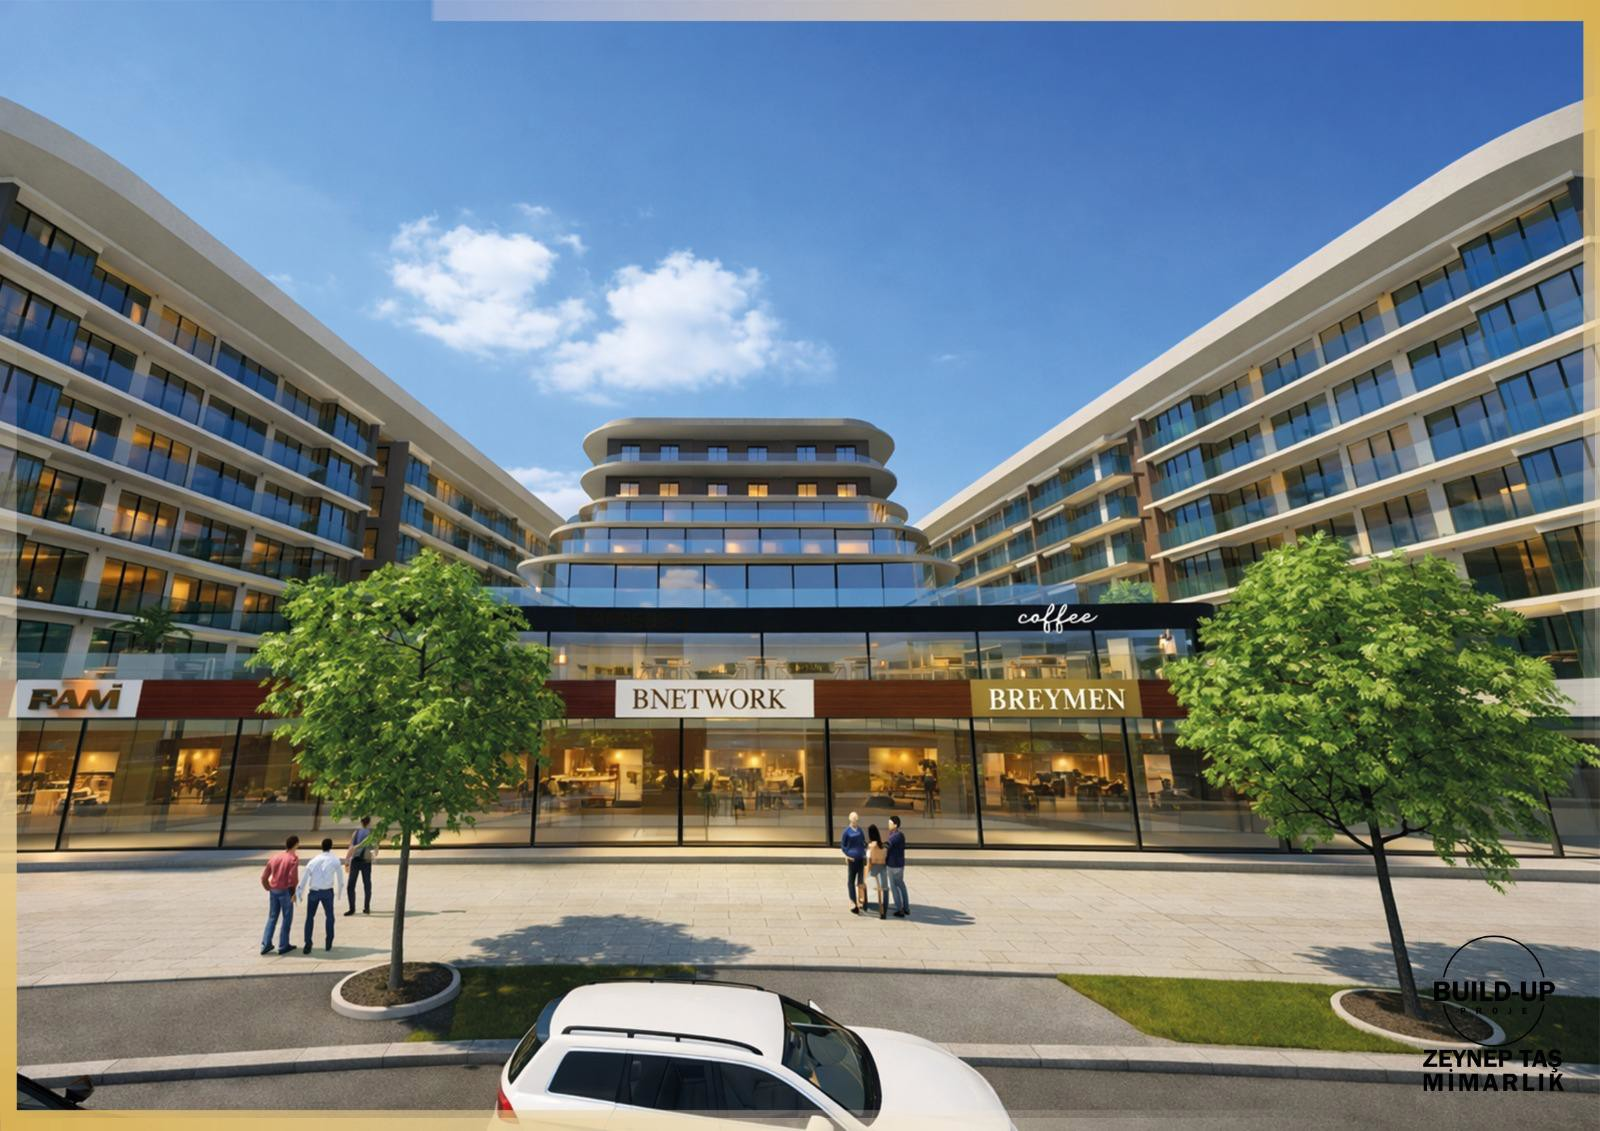
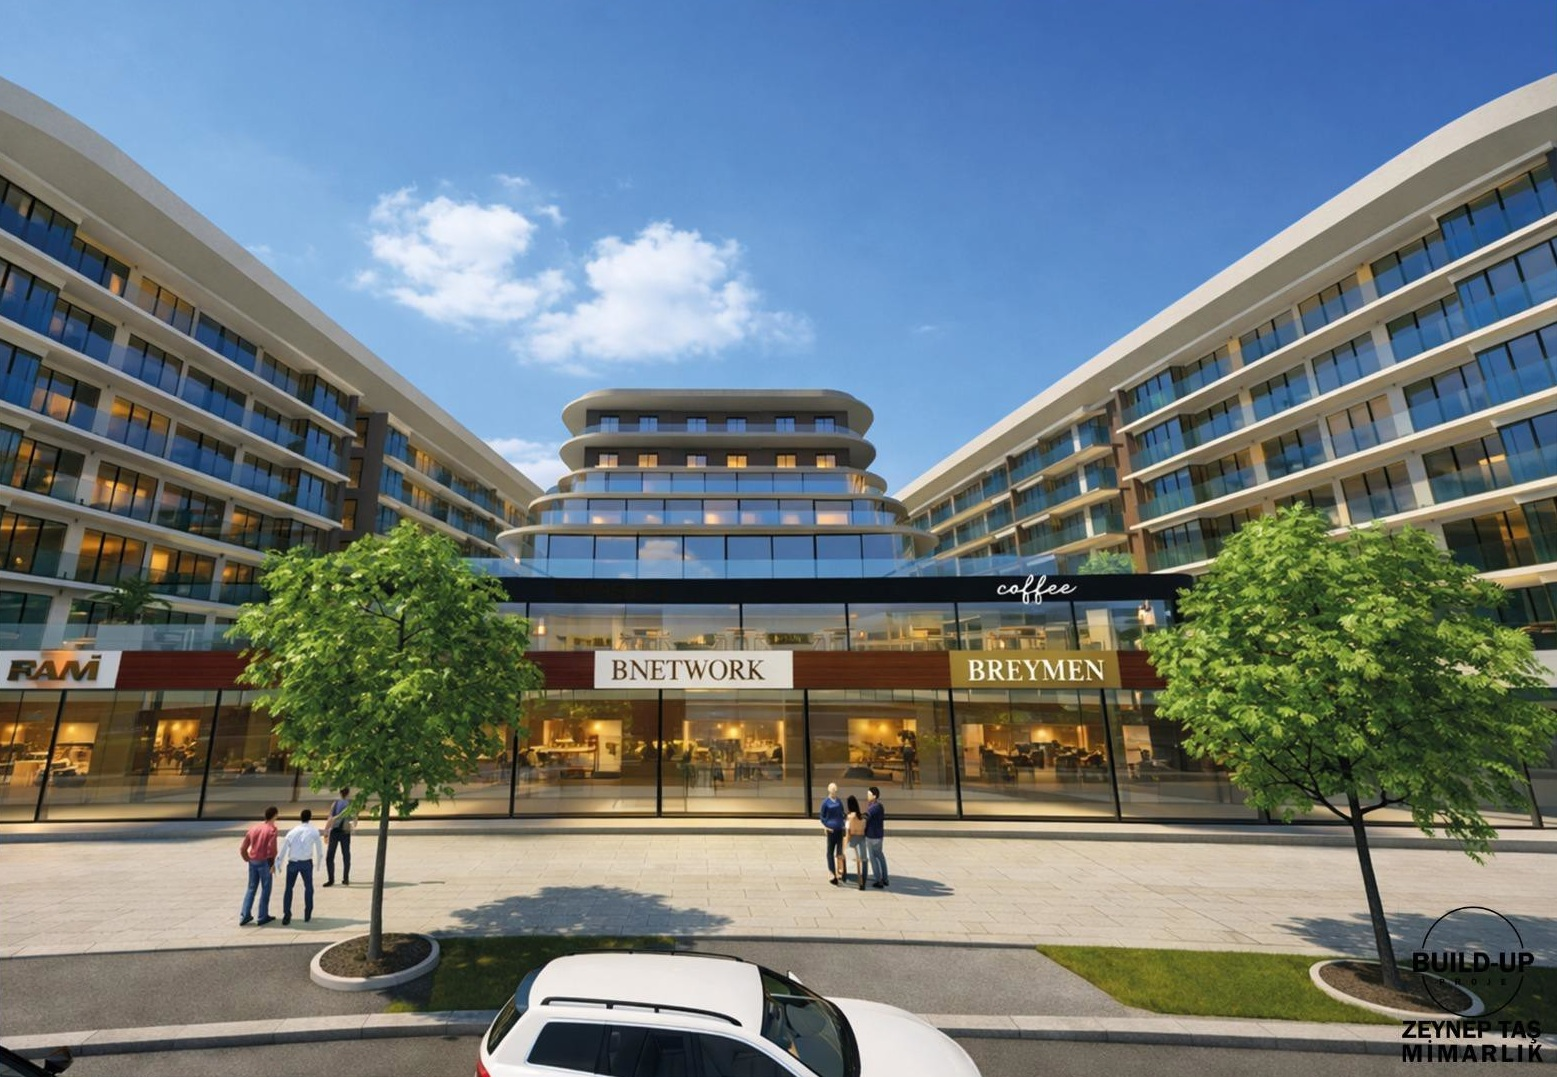
footer yönlendirmeleri güncellendi

diff --git a/src/app/page.tsx b/src/app/page.tsx
@@ -2,7 +2,8 @@
 import { authClient } from "@/lib/auth-client";
 import Footer from "@/components/Footer";
 import ContactModal from "@/components/ContactModal";
-import { useEffect, useState } from "react";
+import { Suspense, useEffect, useState } from "react";
+import { useSearchParams } from "next/navigation";
 import { FaInstagram, FaYoutube, FaFacebookF } from "react-icons/fa";
 import { getPropertyOverride } from "@/lib/property-overrides";
 import type { Property } from "@/data/properties";
@@ -93,11 +94,12 @@ function getYouTubeVideoId(url: string) {
   }
 }
 
-export default function Home() {
+function HomeContent() {
+  const searchParams = useSearchParams();
+
   const [propertyOverrides, setPropertyOverrides] = useState<
     PropertyOverride[]
   >([]);
-
   useEffect(() => {
     async function loadPropertyOverrides() {
       try {
@@ -218,6 +220,70 @@ export default function Home() {
     useState<LatestYouTubeVideo | null>(null);
 
   const [youtubeLoading, setYoutubeLoading] = useState(true);
+
+  useEffect(() => {
+    const category = searchParams.get("category");
+    const propertyType = searchParams.get("propertyType");
+    const resetPrice = searchParams.get("resetPrice");
+
+    if (!category && !propertyType) {
+      return;
+    }
+
+    // Portföyler henüz API'den gelmediyse bekle
+    if (propertiesLoading) {
+      return;
+    }
+
+    const nextCategory = category ?? "Hepsi";
+    const nextPropertyType = propertyType ?? "Tümü";
+
+    // FİLTRE KUTULARINI GÜNCELLE
+    setSelectedCategory(nextCategory);
+    setSelectedPropertyType(nextPropertyType);
+
+    // FİYATLARI TEMİZLE
+    if (resetPrice === "1") {
+      setMinPrice("");
+      setMaxPrice("");
+      setMinPriceInput("");
+      setMaxPriceInput("");
+    }
+
+    // FOOTER SEÇİMİNE GÖRE OTOMATİK FİLTRELE
+    const filtered = properties.filter((property) => {
+      // İLAN TÜRÜ
+      const categoryMatches =
+        nextCategory === "Hepsi" ? true : property.category === nextCategory;
+
+      // GAYRİMENKUL TİPİ
+      const propertyTypeMatches =
+        nextPropertyType === "Tümü"
+          ? true
+          : property.propertyType === nextPropertyType;
+
+      return categoryMatches && propertyTypeMatches;
+    });
+
+    setSearchResults(filtered);
+    setHasSearched(true);
+    setCurrentPage(1);
+
+    // PORTFÖYLER BÖLÜMÜNE GİT
+    window.setTimeout(() => {
+      const element = document.getElementById("portfoyler");
+
+      if (!element) return;
+
+      const targetPosition =
+        element.getBoundingClientRect().top + window.scrollY - 20;
+
+      window.scrollTo({
+        top: targetPosition,
+        behavior: "smooth",
+      });
+    }, 150);
+  }, [searchParams, properties, propertiesLoading]);
 
   const scrollToPortfolioTop = () => {
     window.setTimeout(() => {
@@ -652,10 +718,10 @@ export default function Home() {
               <h1
                 className="
             max-w-[700px]
-text-[39px]
-sm:text-5xl
-md:text-6xl
-lg:text-[68px]
+            text-[39px]
+              sm:text-5xl
+              md:text-6xl
+              lg:text-[68px]
             font-semibold
             leading-[1.02]
             tracking-[-0.035em]
@@ -1866,5 +1932,13 @@ lg:text-[68px]
 
       <Footer />
     </main>
+  );
+}
+
+export default function Home() {
+  return (
+    <Suspense fallback={null}>
+      <HomeContent />
+    </Suspense>
   );
 }

diff --git a/src/components/Footer.tsx b/src/components/Footer.tsx
@@ -53,11 +53,69 @@ export default function Footer() {
               <h3 className="font-semibold text-zinc-950">Hizmetler</h3>
 
               <div className="mt-4 flex flex-col gap-3 text-sm text-zinc-500">
-                <span>Satılık Gayrimenkuller</span>
-                <span>Kiralık Gayrimenkuller</span>
-                <span>Ticari Gayrimenkul</span>
-                <span>Arsa</span>
-                <span>Yatırım Danışmanlığı</span>
+                {/* SATILIK */}
+                <Link
+                  href={{
+                    pathname: "/",
+                    query: {
+                      category: "Satılık",
+                      propertyType: "Tümü",
+                      resetPrice: "1",
+                    },
+                    hash: "portfoyler",
+                  }}
+                  className="transition hover:text-blue-600"
+                >
+                  Satılık Gayrimenkuller
+                </Link>
+
+                {/* KİRALIK */}
+                <Link
+                  href={{
+                    pathname: "/",
+                    query: {
+                      category: "Kiralık",
+                      propertyType: "Tümü",
+                      resetPrice: "1",
+                    },
+                    hash: "portfoyler",
+                  }}
+                  className="transition hover:text-blue-600"
+                >
+                  Kiralık Gayrimenkuller
+                </Link>
+
+                {/* TİCARİ */}
+                <Link
+                  href={{
+                    pathname: "/",
+                    query: {
+                      category: "Hepsi",
+                      propertyType: "Ticari",
+                      resetPrice: "1",
+                    },
+                    hash: "portfoyler",
+                  }}
+                  className="transition hover:text-blue-600"
+                >
+                  Ticari Gayrimenkul
+                </Link>
+
+                {/* ARSA */}
+                <Link
+                  href={{
+                    pathname: "/",
+                    query: {
+                      category: "Hepsi",
+                      propertyType: "Arsa",
+                      resetPrice: "1",
+                    },
+                    hash: "portfoyler",
+                  }}
+                  className="transition hover:text-blue-600"
+                >
+                  Arsa
+                </Link>
               </div>
             </div>
 
